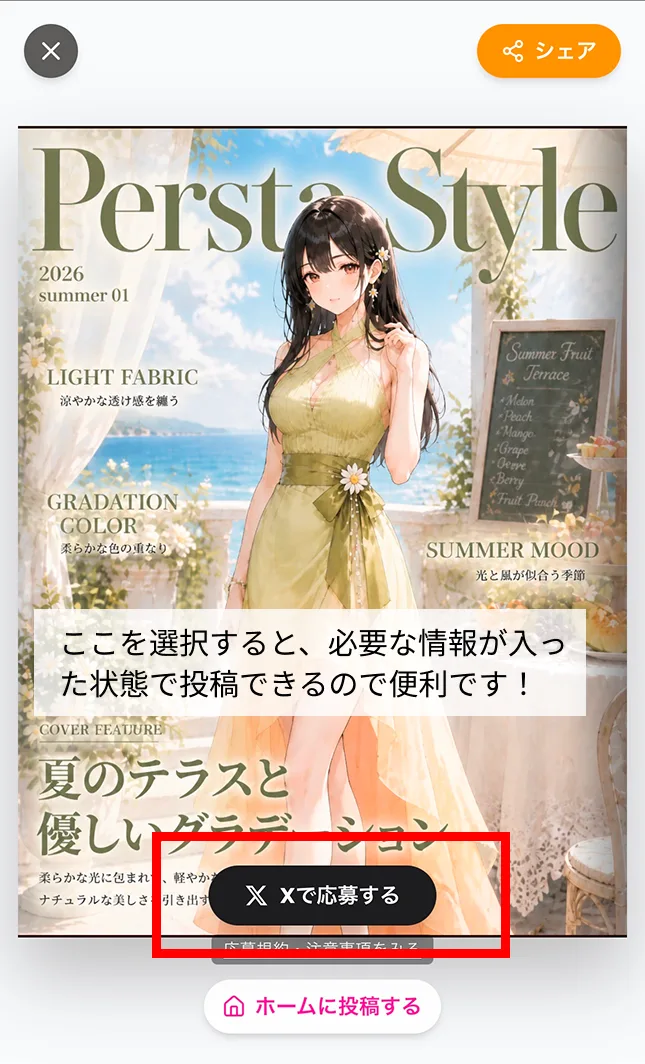
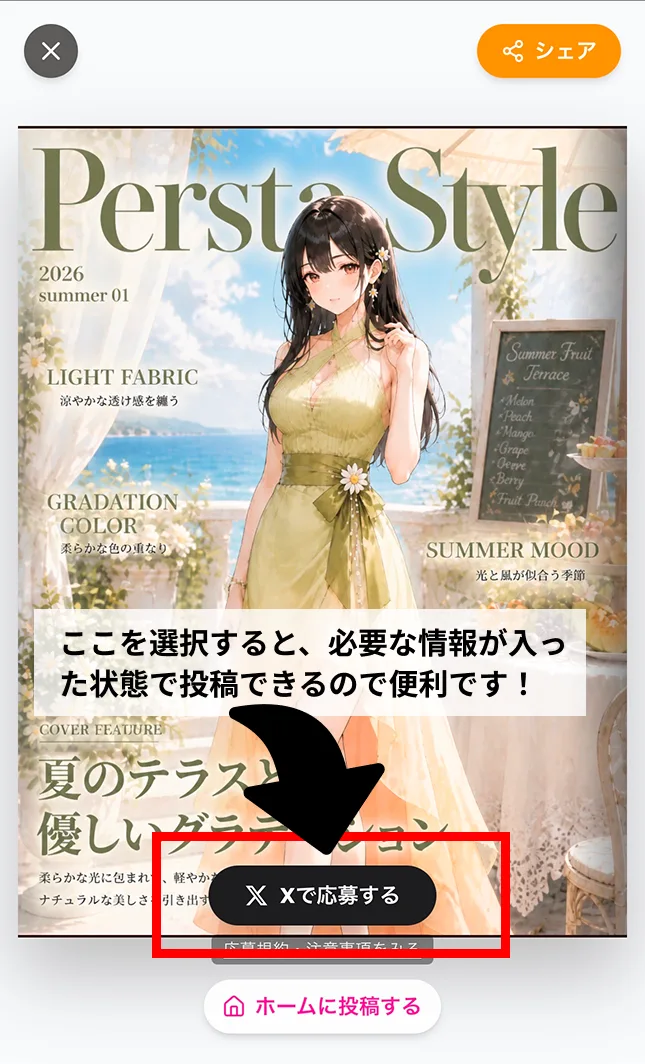
feat(campaigns): 抽選時期の明記と応募手順スクショの差し替え (#496)
* feat(campaigns): 抽選・当選連絡の時期(終了後 約1週間目処)をLPと規約に明記

Claude-Session: https://claude.ai/code/session_016mmqeUvT5TbjAMPNo6Pxsn

* feat(collections): 応募方法の手順2スクショを矢印つき版へ差し替え

Claude-Session: https://claude.ai/code/session_016mmqeUvT5TbjAMPNo6Pxsn

---------

Changed region(s): [[0.093, 0.5893, 0.8682, 0.8064]]

diff --git a/app/campaigns/fashion-magazine-lottery/page.tsx b/app/campaigns/fashion-magazine-lottery/page.tsx
@@ -134,9 +134,16 @@ export default function FashionMagazineLotteryRulesPage() {
 
       <Section no="06" title="抽選・当選発表">
         <ul className="list-disc space-y-1 pl-5">
-          <li>応募期間の終了後、条件を満たした応募の中から主催者が抽選します</li>
+          <li>
+            応募期間の終了後、
+            <span className="font-bold">約1週間を目処に</span>
+            、条件を満たした応募の中から主催者が抽選します
+          </li>
           <li>
             当選された方には、{MENTION} からXのDMでご連絡します。当選発表はこのDMをもって代えさせていただきます
+          </li>
+          <li>
+            ギフト券は、当選のご連絡とやり取りの確認ができ次第、DMで順次お送りします
           </li>
           <li>
             DMのご連絡から7日以内にお返事がない場合、当選を無効とし、繰り上げ抽選を行うことがあります

diff --git a/features/collections/components/FashionMagazineGuide.tsx b/features/collections/components/FashionMagazineGuide.tsx
@@ -466,6 +466,11 @@ export function FashionMagazineGuide() {
                 応募は無料です。ペルコインの購入有無は当選確率に影響しません。
               </p>
               <p className="mt-2">
+                抽選と当選のご連絡は、企画終了後
+                <span className="font-bold">約1週間を目処</span>
+                に、XのDMで行います。
+              </p>
+              <p className="mt-2">
                 <Link
                   href={CAMPAIGN.rulesPath}
                   className="underline hover:text-stone-700"
